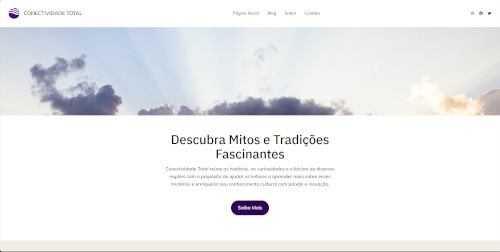
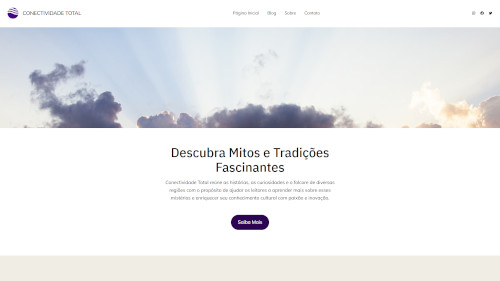
Atualizando projetos

diff --git a/index.html b/index.html
@@ -16,8 +16,8 @@
             </header>
             <nav class="navbar">
                 <a href="#">Início</a>
-                <a href="#">Sobre</a>
-                <a href="#">Contato</a>
+                <!--a href="#">Sobre</a>
+                <a href="#">Contato</a-->
             </nav>
             <div class="cards">
                 <div class="card">
@@ -25,7 +25,7 @@
                     <div class="card-container">
                         <h4><b>Conectividade Total</b></h4>                        
                         <p>Um blog desenvolvido em Wordpress</p>
-                        <p><a href="https://conectividadetotal.com.br" target="_blank"><em>https://conectividadetotal.com.br</em></a></p>
+                        <p><a href="https://conectividadetotal.com.br" target="_blank"><em>Acesse aqui!</em></a></p>
                     </div>
                 </div>     
                 <div class="card">
@@ -36,7 +36,18 @@
                         <p><a href="https://alex-sandro.github.io/projetos/podologaivanete" target="_blank"><em>Acesse aqui!</em></a></p>
                     </div>
                 </div>
-            </div>      
+                <div class="card">
+                    <img src="img/montanhas-fibras.jpg" alt="" style="width: 100%;">
+                    <div class="card-container">
+                        <h4><b>Website Montanhas Fibras</b></h4>
+                        <p>Website utilizando o Bootstrap 5</p>
+                        <p><a href="https://alex-sandro.github.io/projetos/MontanhasFibras" target="_blank"><em>Acesse aqui!</em></a></p>
+                    </div>
+                </div>
+            </div>
+        <footer class="footer-container">
+            <h5><a href="https://github.com/alex-sandro" target="_blank">Github</a> | <a href="https://www.linkedin.com/in/alexssoliveira/" target="_blank">Linkedin</a></h5>
+        </footer>      
         </div>
     </body>
 </html>

diff --git a/css/styles.css b/css/styles.css
@@ -57,3 +57,4 @@ body{
 .card-container{
   padding: 2px 16px;
 }
+h5{text-align: center;}
